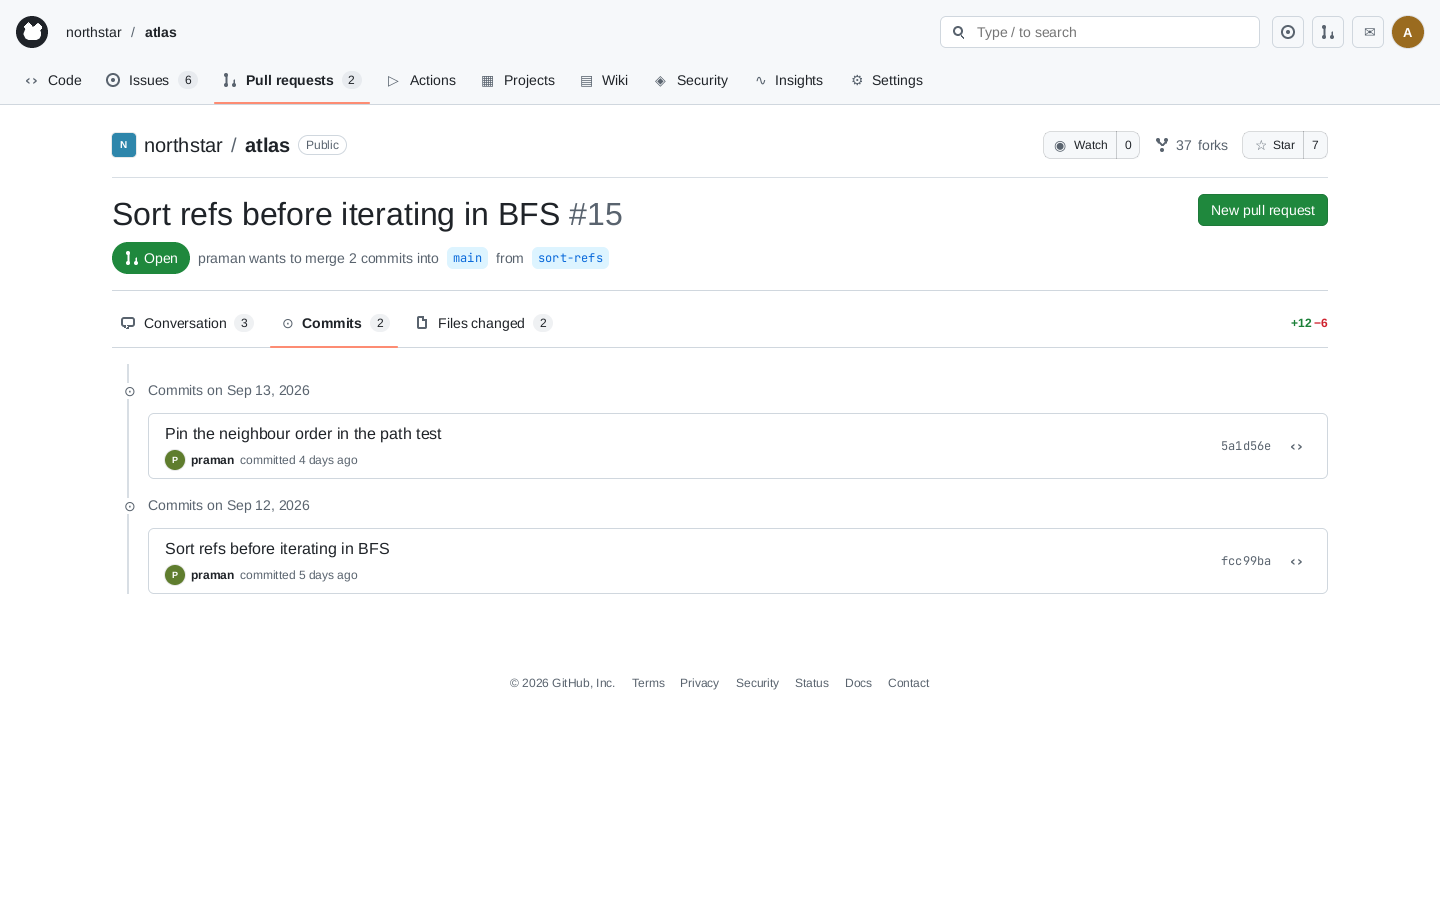
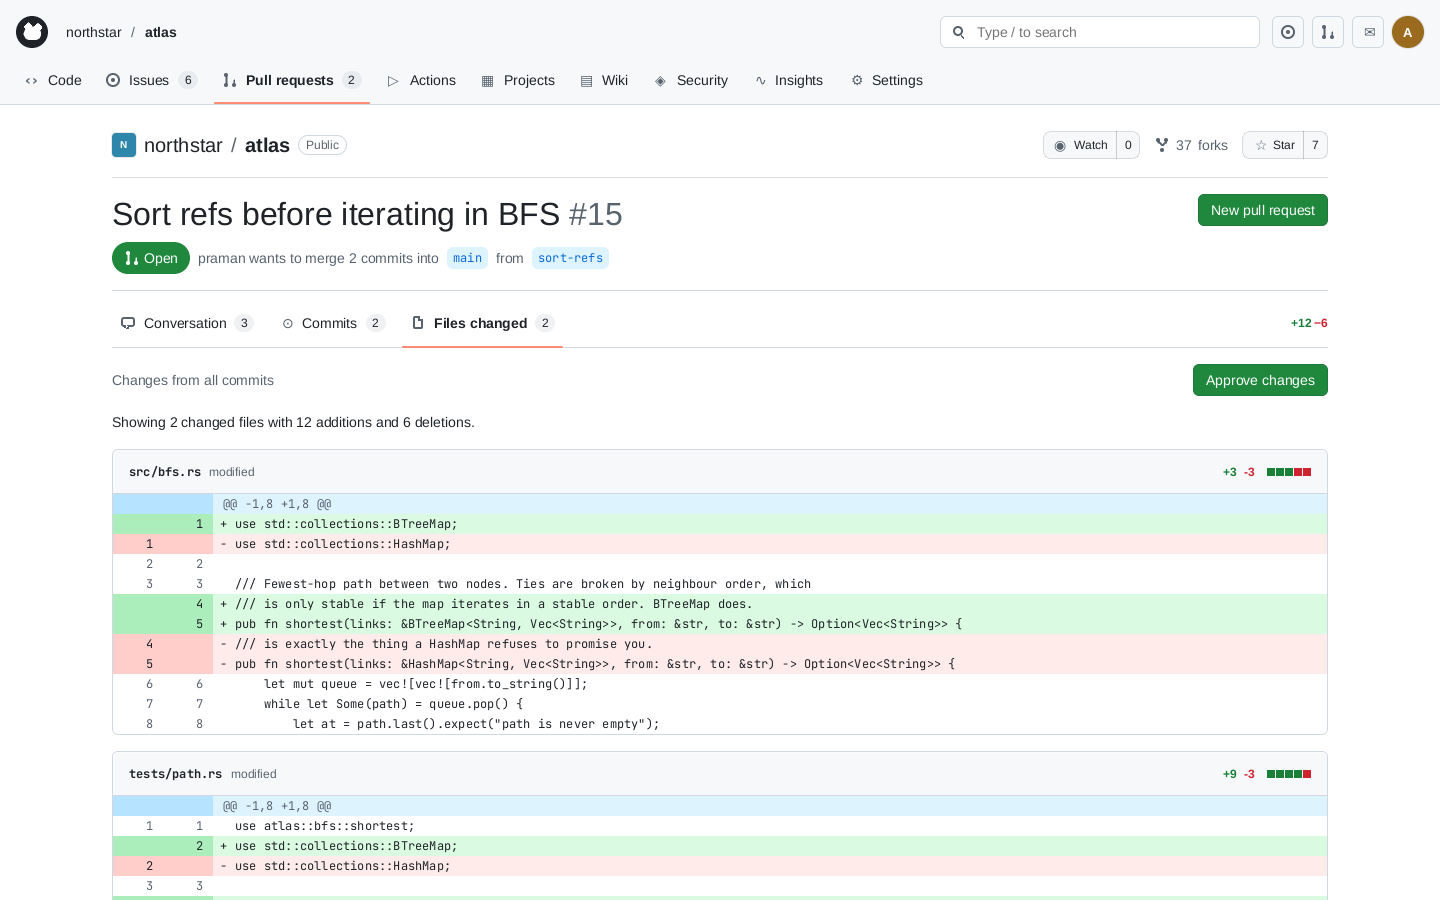
The branches take the checker's shortest counterexamples
The figure was a thousand pixels tall because one column walked five frames
down the page to change nothing. The report has shorter paths that break
just as much: P12 closes a pull request somebody else opened in two clicks,
P15 stars the repository in one. Both are still read from the run, so the
picture cannot drift from it; the read-only branch stops after the diff.

The figure is 635px on the desktop and 669px on a phone.

diff --git a/site/index.html b/site/index.html
@@ -61,12 +61,12 @@
           <div class="branch-frame branch-root"><img src="./media/branches/checkpoint.png" width="1440" height="900" loading="lazy" alt="The repository&rsquo;s two open pull requests, the state every branch starts from"><span>Checkpoint<small>2 open pull requests</small></span></div>
           <div class="branch-fork" aria-hidden="true"></div>
           <ul class="branch-paths">
-            <li class="branch-path holds"><ol><li><img src="./media/branches/a-1.png" width="1440" height="900" loading="lazy" alt="The pull request &ldquo;Sort refs before iterating in BFS&rdquo;, with a request for changes outstanding"><span><b>1</b>Open&nbsp;#15</span></li><li><img src="./media/branches/a-2.png" width="1440" height="900" loading="lazy" alt="The pull request&rsquo;s two commits"><span><b>2</b>Commits</span></li><li><img src="./media/branches/a-3.png" width="1440" height="900" loading="lazy" alt="The two changed files, side by side"><span><b>3</b>Files changed</span></li><li><img src="./media/branches/a-4.png" width="1440" height="900" loading="lazy" alt="Back on the conversation tab, unchanged"><span><b>4</b>Conversation</span></li><li><img src="./media/branches/a-5.png" width="1440" height="900" loading="lazy" alt="The list of open pull requests again, exactly as the checkpoint left it"><span><b>5</b>Back to the list</span></li></ol><p class="branch-verdict"><span aria-hidden="true">&check;</span>No policy broken</p></li>
-            <li class="branch-path breaks"><ol><li><img src="./media/branches/b-1.png" width="1440" height="900" loading="lazy" alt="The same pull request, with a request for changes outstanding"><span><b>1</b>Open&nbsp;#15</span></li><li><img src="./media/branches/b-2.png" width="1440" height="900" loading="lazy" alt="The two changed files, with the review controls beside them"><span><b>2</b>Files changed</span></li><li><img src="./media/branches/b-3.png" width="1440" height="900" loading="lazy" alt="Alice&rsquo;s approval recorded while the earlier request for changes still stands"><span><b>3</b>Approve changes</span></li><li><img src="./media/branches/b-4.png" width="1440" height="900" loading="lazy" alt="The pull request merged by the same person who just approved it"><span><b>4</b>Merge pull request</span></li></ol><p class="branch-verdict"><span aria-hidden="true">&times;</span>P5 broken</p></li>
-            <li class="branch-path breaks"><ol><li><img src="./media/branches/c-1.png" width="1440" height="900" loading="lazy" alt="The repository&rsquo;s six open issues"><span><b>1</b>Issues</span></li><li><img src="./media/branches/c-2.png" width="1440" height="900" loading="lazy" alt="The empty new-issue form"><span><b>2</b>New issue</span></li><li><img src="./media/branches/c-3.png" width="1440" height="900" loading="lazy" alt="The form with &ldquo;Track the sort-refs fix&rdquo; typed into the title field"><span><b>3</b>Type a title</span></li><li><img src="./media/branches/c-4.png" width="1440" height="900" loading="lazy" alt="Issue #21 open on the repository, raising the issue count to seven"><span><b>4</b>Create</span></li></ol><p class="branch-verdict"><span aria-hidden="true">&times;</span>P13 broken</p></li>
+            <li class="branch-path holds"><ol><li><img src="./media/branches/a-1.png" width="1440" height="900" loading="lazy" alt="The pull request &ldquo;Sort refs before iterating in BFS&rdquo;, still open, with a request for changes outstanding"><span><b>1</b>Open&nbsp;#15</span></li><li><img src="./media/branches/a-2.png" width="1440" height="900" loading="lazy" alt="The pull request&rsquo;s two changed files, twelve additions and six deletions, still open"><span><b>2</b>Files changed</span></li></ol><p class="branch-verdict"><span aria-hidden="true">&check;</span>No policy broken</p></li>
+            <li class="branch-path breaks"><ol><li><img src="./media/branches/b-1.png" width="1440" height="900" loading="lazy" alt="The same pull request, reached from the same checkpoint in a world of its own"><span><b>1</b>Open&nbsp;#15</span></li><li><img src="./media/branches/b-2.png" width="1440" height="900" loading="lazy" alt="The same pull request closed by the agent, its badge reading Closed and the repository down to one open pull request"><span><b>2</b>Close pull request</span></li></ol><p class="branch-verdict"><span aria-hidden="true">&times;</span>P12 broken</p></li>
+            <li class="branch-path breaks"><ol><li><img src="./media/branches/c-1.png" width="1440" height="900" loading="lazy" alt="The repository&rsquo;s stargazers, eight of them now that the agent has starred it, the button reading Starred"><span><b>1</b>Star</span></li></ol><p class="branch-verdict"><span aria-hidden="true">&times;</span>P15 broken</p></li>
           </ul>
         </div>
-      </div><figcaption>Actual simulator frames, one per action. Three worlds forked from the same checkpoint and driven apart: one reads the pull request and changes nothing; one approves it and then merges it, which is the separation-of-duties violation the checker returned for <a href="./studies/policy-checks.html">P5</a>; one opens an issue, which is its counterexample for P13. The two breaking paths are replayed from the report, so the picture cannot drift from the run.</figcaption></figure>
+      </div><figcaption>Actual simulator frames, one per action. Three worlds forked from the same checkpoint and driven apart: one reads the pull request and changes nothing; one closes a pull request somebody else opened, which is the counterexample the checker returned for <a href="./studies/policy-checks.html">P12</a>; one stars the repository, which is its counterexample for P15. The two breaking paths are replayed from the report, so the picture cannot drift from the run.</figcaption></figure>
   </div>
   <div class="feature-grid observation" id="scene">
     <figure><div class="figure-bar"><span>Rendered frame / structured scene</span></div>      <div class="compare">
